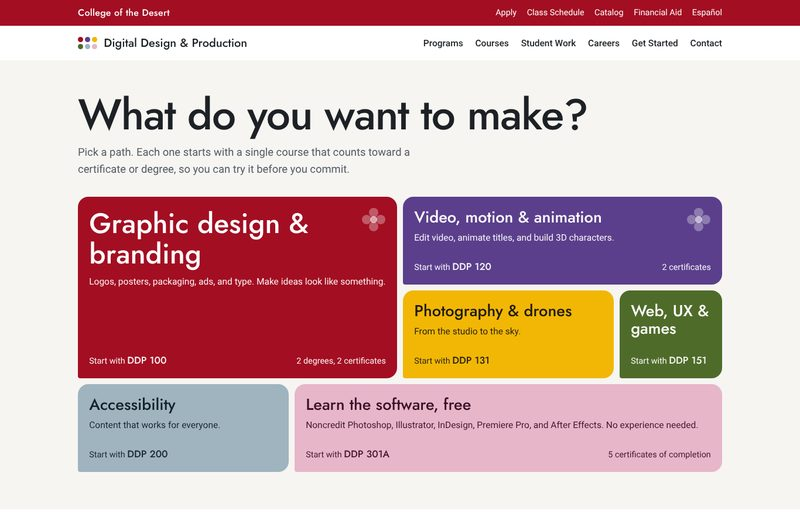
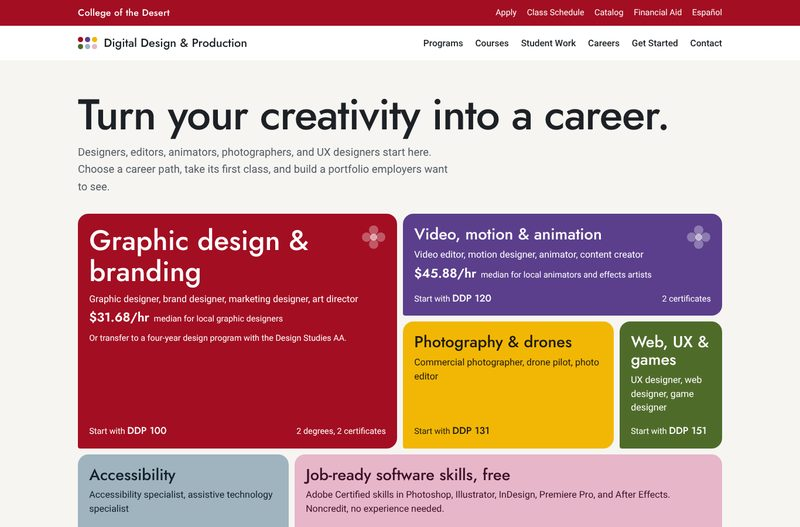
Direction C: career-focused hero
Headline now 'Turn your creativity into a career.' Each path tile lists
the jobs it leads to, local BLS median pay where available, and the
transfer option for design.

Claude-Session: https://claude.ai/code/session_01Mj1y2jybZeHCPPvekYig9a

diff --git a/docs/mockups/c-wildflower.html b/docs/mockups/c-wildflower.html
@@ -33,7 +33,10 @@
 .blooms a{color:inherit;text-decoration:none}
 .blooms a::after{content:"";position:absolute;inset:0}
 .blooms h2{font:500 clamp(1.25rem,2vw,1.7rem)/1.1 var(--display);margin:0 0 .5rem}
-.blooms p{margin:0;font-size:.97rem;opacity:.95}
+.blooms p{margin:0;font-size:.97rem}
+.blooms .jobs{font-size:1rem;line-height:1.45}
+.blooms .wage{margin-top:.6rem;font-size:.9rem}
+.blooms .wage b{font:600 1.35rem/1 var(--display);margin-right:.25rem}
 .blooms .start{margin-top:1rem;font-size:.9rem;display:flex;justify-content:space-between;gap:.5rem;align-items:baseline}
 .blooms .start b{font:500 1.05rem var(--display)}
 .blooms li:hover h2{text-decoration:underline;text-underline-offset:.15em}
@@ -132,16 +135,17 @@ section{padding:clamp(3rem,7vw,5rem) 0}
 <main id="main">
 <div class="field" id="paths">
   <div class="wrap">
-    <h1>What do you want to make?</h1>
-    <p class="lede">Pick a path. Each one starts with a single course that counts toward a certificate or degree, so you can try it before you commit.</p>
+    <h1>Turn your creativity into a career.</h1>
+    <p class="lede">Designers, editors, animators, photographers, and UX designers start here. Choose a career path, take its first class, and build a portfolio employers want to see.</p>
     <ul class="blooms">
-      <li class="b-design"><svg class="flower" aria-hidden="true"><use href="#fl"/></svg><div><h2><a href="#">Graphic design &amp; branding</a></h2><p>Logos, posters, packaging, ads, and type. Make ideas look like something.</p></div><p class="start"><span>Start with <b>DDP 100</b></span><span>2 degrees, 2 certificates</span></p></li>
-      <li class="b-motion"><svg class="flower" aria-hidden="true"><use href="#fl"/></svg><div><h2><a href="#">Video, motion &amp; animation</a></h2><p>Edit video, animate titles, and build 3D characters.</p></div><p class="start"><span>Start with <b>DDP 120</b></span><span>2 certificates</span></p></li>
-      <li class="b-photo"><div><h2><a href="#">Photography &amp; drones</a></h2><p>From the studio to the sky.</p></div><p class="start"><span>Start with <b>DDP 131</b></span></p></li>
-      <li class="b-interactive"><div><h2><a href="#">Web, UX &amp; games</a></h2></div><p class="start"><span>Start with <b>DDP 151</b></span></p></li>
-      <li class="b-access"><div><h2><a href="#">Accessibility</a></h2><p>Content that works for everyone.</p></div><p class="start"><span>Start with <b>DDP 200</b></span></p></li>
-      <li class="b-software"><div><h2><a href="#">Learn the software, free</a></h2><p>Noncredit Photoshop, Illustrator, InDesign, Premiere Pro, and After Effects. No experience needed.</p></div><p class="start"><span>Start with <b>DDP 301A</b></span><span>5 certificates of completion</span></p></li>
+      <li class="b-design"><svg class="flower" aria-hidden="true"><use href="#fl"/></svg><div><h2><a href="#">Graphic design &amp; branding</a></h2><p class="jobs">Graphic designer, brand designer, marketing designer, art director</p><p class="wage"><b>$31.68/hr</b> median for local graphic designers</p><p class="wage">Or transfer to a four-year design program with the Design Studies AA.</p></div><p class="start"><span>Start with <b>DDP 100</b></span><span>2 degrees, 2 certificates</span></p></li>
+      <li class="b-motion"><svg class="flower" aria-hidden="true"><use href="#fl"/></svg><div><h2><a href="#">Video, motion &amp; animation</a></h2><p class="jobs">Video editor, motion designer, animator, content creator</p><p class="wage"><b>$45.88/hr</b> median for local animators and effects artists</p></div><p class="start"><span>Start with <b>DDP 120</b></span><span>2 certificates</span></p></li>
+      <li class="b-photo"><div><h2><a href="#">Photography &amp; drones</a></h2><p class="jobs">Commercial photographer, drone pilot, photo editor</p></div><p class="start"><span>Start with <b>DDP 131</b></span></p></li>
+      <li class="b-interactive"><div><h2><a href="#">Web, UX &amp; games</a></h2><p class="jobs">UX designer, web designer, game designer</p></div><p class="start"><span>Start with <b>DDP 151</b></span></p></li>
+      <li class="b-access"><div><h2><a href="#">Accessibility</a></h2><p class="jobs">Accessibility specialist, assistive technology specialist</p></div><p class="start"><span>Start with <b>DDP 200</b></span></p></li>
+      <li class="b-software"><div><h2><a href="#">Job-ready software skills, free</a></h2><p class="jobs">Adobe Certified skills in Photoshop, Illustrator, InDesign, Premiere Pro, and After Effects. Noncredit, no experience needed.</p></div><p class="start"><span>Start with <b>DDP 301A</b></span><span>5 certificates of completion</span></p></li>
     </ul>
+    <p class="src" style="margin-top:1rem">Pay: U.S. Bureau of Labor Statistics, May 2025, Riverside-San Bernardino-Ontario metro, which includes the Coachella Valley. Animators usually need a bachelor's degree.</p>
   </div>
 </div>
 

diff --git a/docs/mockups/index.html b/docs/mockups/index.html
@@ -52,11 +52,11 @@ h1{font:500 clamp(2rem,4.5vw,3.2rem)/1.05 var(--display);margin:0 0 .75rem}
       </div>
     </li>
     <li>
-      <a href="c-wildflower.html"><img src="thumbs/c.jpg" alt="Direction C homepage: the question What do you want to make, above six large color blocks, one per creative path" width="800" height="527"></a>
+      <a href="c-wildflower.html"><img src="thumbs/c.jpg" alt="Direction C homepage: the headline Turn your creativity into a career, above six large color blocks, one per creative career path" width="800" height="527"></a>
       <div>
         <h2><a href="c-wildflower.html">C. Wildflower</a></h2>
-        <p>Leads with a question. Six creative paths, each colored after a desert bloom, following COD's campus signage idea of color-coding with local flora.</p>
-        <dl><dt>Best for</dt><dd>Students who arrive unsure. It is the most direct route from "I like making things" to a first class.</dd>
+        <p>Leads with careers. Six creative career paths, each colored after a desert bloom (COD's campus signage color-codes with local flora). Each path names the jobs it leads to, local pay where available, and its first class.</p>
+        <dl><dt>Best for</dt><dd>Students who want to know where the work leads. It is the most direct route from "I'm creative" to a job title and a first class.</dd>
         <dt>Needs</dt><dd>Nothing new. The colors carry into each program page.</dd></dl>
         <a class="btn btn-red" href="c-wildflower.html">Open Direction C</a>
       </div>
